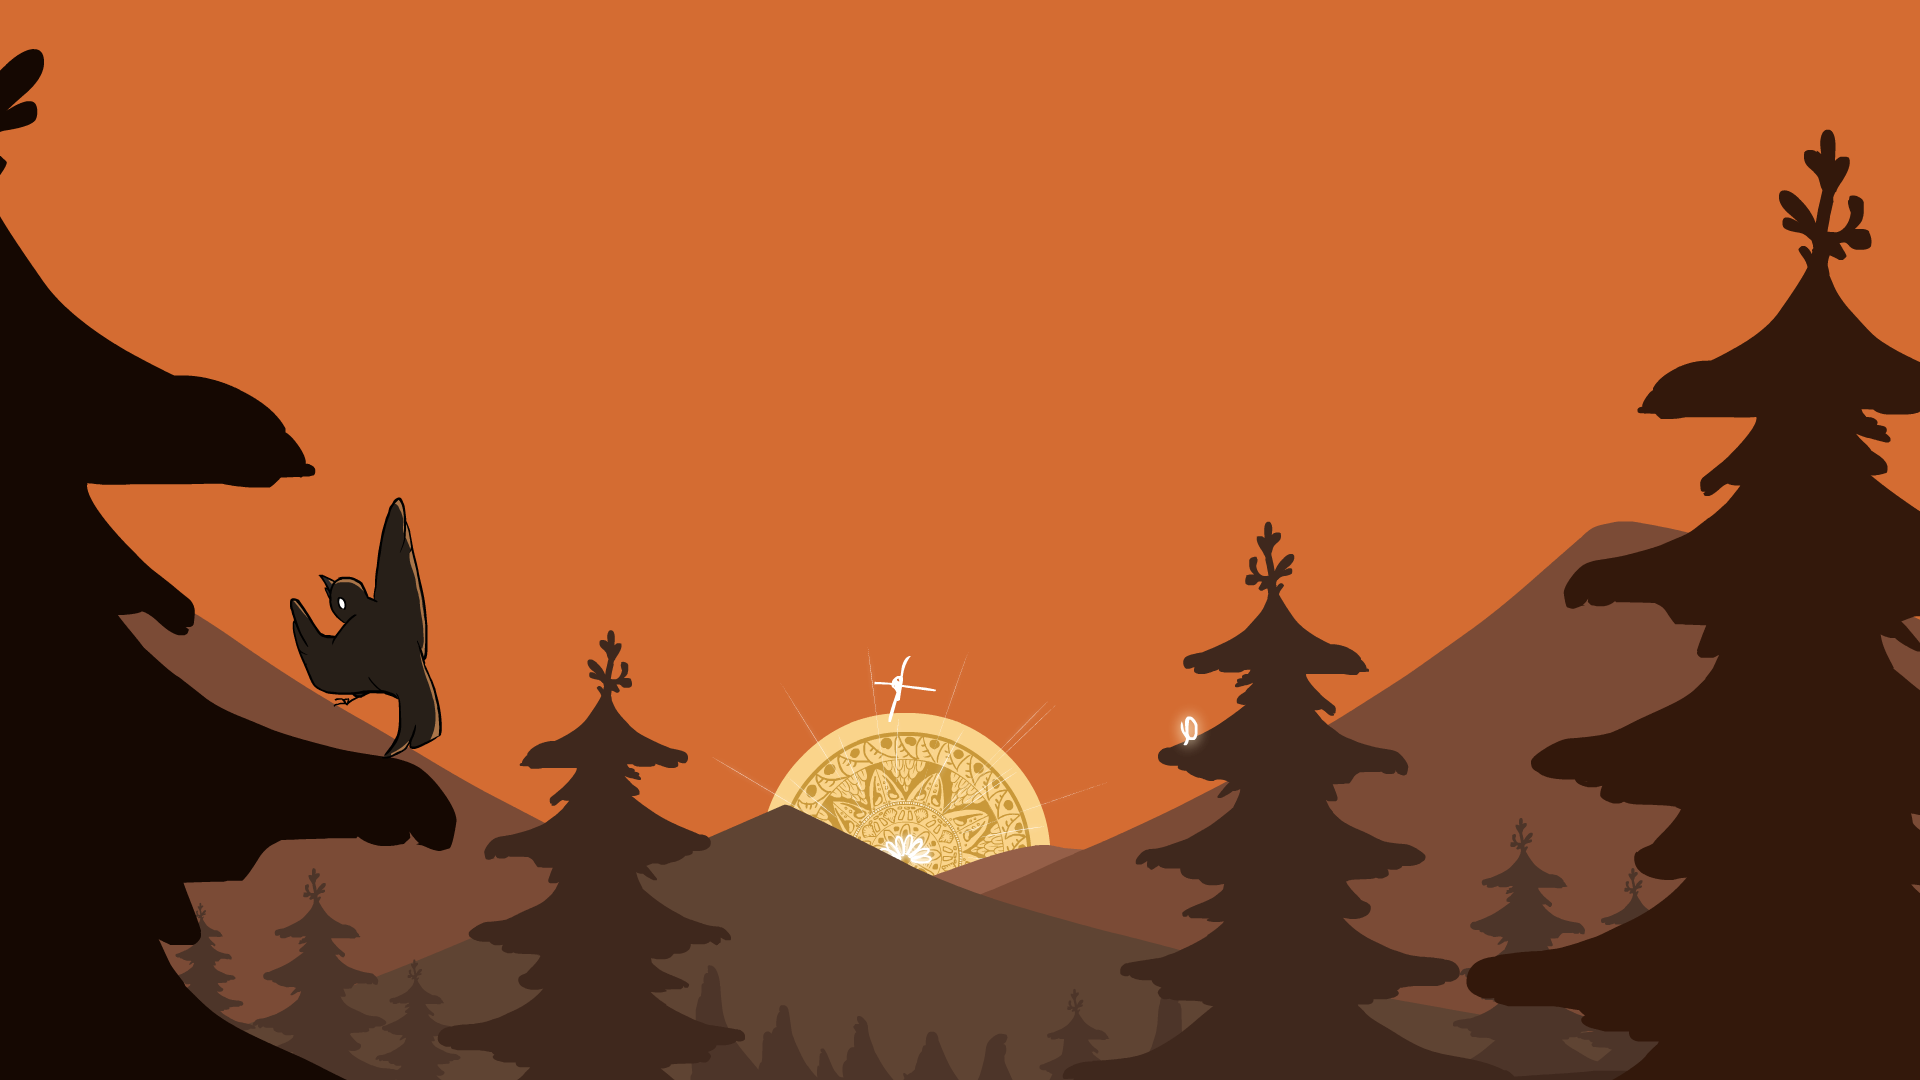
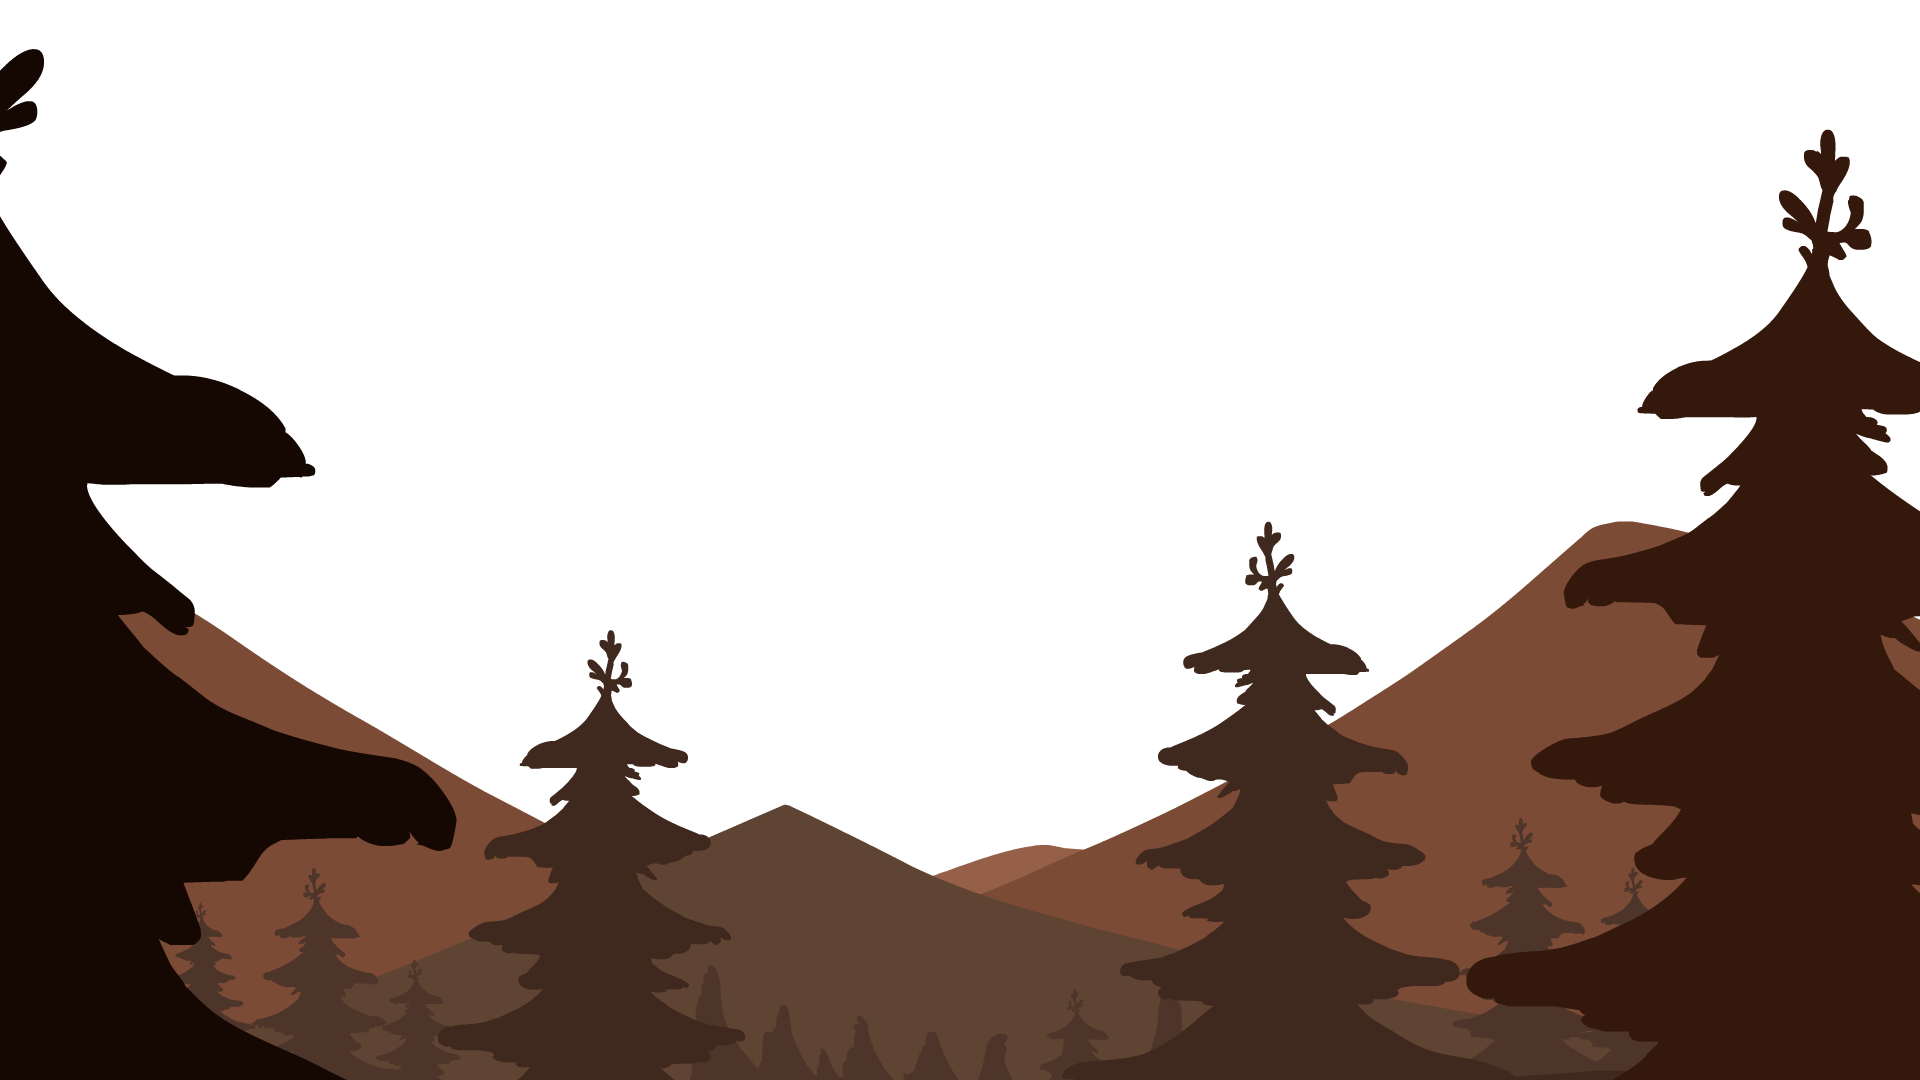
Bird working

diff --git a/src/Game.js b/src/Game.js
@@ -1,15 +1,12 @@
 import React from 'react';
 import ReactDOM from 'react-dom';
-
 import styled, { createGlobalStyle } from 'styled-components';
-
 
 import Keyboard from './Components/Keyboard';
 import SingSystem from './Components/SingSystem';
 import BirdSpawner from './Components/SpawnSystem';
 
-import GameConfig from 'constants/Config';
-
+import Config from 'constants/Config';
 import { Foreground, Button } from './Components/Elements';
 
 const GlobalStyle = createGlobalStyle`
@@ -18,6 +15,7 @@ const GlobalStyle = createGlobalStyle`
     height: 100%;
     margin: 0px;
     padding: 0px;
+    background-color: #D46C32;
   }
 `;
 
@@ -31,7 +29,7 @@ const LogicContainer = styled.div`
 
 
 function Game() {
-  const allowedSoundKeys = GameConfig.sounds.map(sound => sound.key);
+  const allowedSoundKeys = Config.sounds.map(sound => sound.key);
 
   return (
     <div>
@@ -43,20 +41,22 @@ function Game() {
           <SingSystem pressedKeys={pressedKeys}>
             {(currentSingTime, handleSingTimeReset) => {
               return (
-                <BirdSpawner
-                  singTime={currentSingTime}
-                  singTimeReset={handleSingTimeReset}
-                >
-                {(props) => {
-                  return (
-                    <LogicContainer>
-                      <div>pressedKeys: {JSON.stringify(pressedKeys)}</div>
-                      <div>singTime: {currentSingTime}</div>
-                      <Button onClick={handleSingTimeReset}>RESET</Button>
-                    </LogicContainer>
-                  )
-                }}
-                </BirdSpawner>
+                <div>
+                  <BirdSpawner
+                    singTime={currentSingTime}
+                    singTimeReset={handleSingTimeReset}
+                  >
+                    {sacrifice => {
+                      return (
+                        <LogicContainer>
+                          <div>pressedKeys: {JSON.stringify(pressedKeys)}</div>
+                          <div>singTime: {currentSingTime}</div>
+                          <Button onClick={handleSingTimeReset}>RESET</Button>
+                        </LogicContainer>
+                      )
+                    }}
+                  </BirdSpawner>
+                </div>
               );
             }}
           </SingSystem>

diff --git a/src/Components/Bird/Bird.js b/src/Components/Bird/Bird.js
@@ -1,0 +1,53 @@
+import React from 'react';
+import styled from 'styled-components';
+
+import { MainBird } from '../Elements';
+import Config from 'constants/Config';
+import { getRandomInt } from 'utils/random';
+
+class Bird extends React.PureComponent {
+  static IDLE = './images/bird-sing-03.png';
+  static SING = [
+    './images/bird-sing-01.png',
+    './images/bird-sing-02.png'
+  ];
+
+  state = {
+    birdAnimation: Bird.IDLE
+  }
+    
+  getRandomBirdSprite = () => {
+    return Bird.SING[getRandomInt(0, Bird.SING.length - 1)];
+  }
+
+  componentDidUpdate(prevProps) {
+    if (prevProps.pressedKeys.toString() !== this.props.pressedKeys.toString()) {
+
+      // Sing state
+      if (this.props.pressedKeys.length > 0) {
+
+        // Check that not the same sprite is chosen
+        let spriteNumber = this.getRandomBirdSprite();
+        while(spriteNumber === this.state.birdAnimation) {
+          spriteNumber = this.getRandomBirdSprite();
+        }
+
+        this.setState({ 
+          birdAnimation: spriteNumber
+        });
+
+      // Idle state
+      } else {
+        this.setState({ 
+          birdAnimation: Bird.IDLE
+        });
+      }
+    }
+  }
+
+  render() {
+    return <MainBird url={this.state.birdAnimation} />
+  }
+}
+
+export default Bird;

diff --git a/src/Components/SingSystem/SingSystem.js b/src/Components/SingSystem/SingSystem.js
@@ -2,7 +2,9 @@ import React from 'react';
 import _ from 'lodash';
 import ReactHowler from 'react-howler' 
 
-import Counter from '../Counter/Counter';
+import Counter from '../Counter';
+import Bird from '../Bird';
+
 import GameConfig from 'constants/Config';
 
 class SingSystem extends React.Component {
@@ -15,12 +17,16 @@ class SingSystem extends React.Component {
 
       // Pressed some key
       if (this.props.pressedKeys.length > 0) {
-        this.setState({ counterStage: Counter.RUN });
+        this.setState({ 
+          counterStage: Counter.RUN
+        });
       }
 
       // No keys pressed
       if (this.props.pressedKeys.length === 0) {
-        this.setState({ counterStage: Counter.STOP });
+        this.setState({ 
+          counterStage: Counter.STOP
+        });
       }
     }
   }
@@ -47,6 +53,8 @@ class SingSystem extends React.Component {
                 onPause={() => this[`soundSource_${sound.key}`].stop()}
               />
             ))}
+
+            <Bird pressedKeys={this.props.pressedKeys} />
 
             {this.props.children(count, this.handleReset)}
           </>

diff --git a/src/Components/Elements.js b/src/Components/Elements.js
@@ -2,7 +2,6 @@ import styled from 'styled-components';
 
 import Config from 'constants/Config';
 
-
 console.log(Config.images.foreground)
 
 export const Foreground = styled.div`
@@ -25,5 +24,27 @@ export const Button = styled.div`
   border: 1px solid tomato;
   background-color: papayawhip;
   margin: 10px 10px;
+`;
+
+export const MainBird = styled.div`
+  position: absolute;
+  left: 250px;
+  top: 510px;
+
+  width: 254px;
+  height: 328px;
+  background-image: url(${props => props.url});
+  background-repeat: no-repeat;
+  display: block;
+`;
+
+export const SecondaryBird = styled.div`
+  position: absolute;
+  top: ${props => props.y}px;
+  left: ${props => props.x}px;
+
+  width: 50px;
+  height: 50px;
+  border: 3px dashed lightgreen;
 `;
 

diff --git a/src/Components/SpawnSystem/SpawnSystem.js b/src/Components/SpawnSystem/SpawnSystem.js
@@ -1,14 +1,26 @@
 import React from 'react';
 
+import { SecondaryBird } from '../Elements';
+
+const spawnPositions = [
+  { x: 1188, y: 727 }
+]
 
 export default class SpawnSystem extends React.Component {
+  state = {
+    sacrifice: false
+  }
+
+  spawnBird = () => {
+
+  }
 
   render() {
-
     return (
-      <div>
-        {this.props.children(this.props)}
-      </div>
+      <>
+        {spawnPositions.map(spawn => <SecondaryBird key={`bird_${spawn.x}`} x={spawn.x} y={spawn.y} />)}
+        {this.props.children(this.state.sacrifice)}
+      </>
     )
   }
 }

diff --git a/assets/images/bird-sing.css b/assets/images/bird-sing.css
@@ -1,0 +1,23 @@
+.sprite {
+    background-image: url(spritesheet.png);
+    background-repeat: no-repeat;
+    display: block;
+}
+
+.sprite-BirdSing0001 {
+    width: 254px;
+    height: 328px;
+    background-position: -5px -5px;
+}
+
+.sprite-BirdSing0002 {
+    width: 254px;
+    height: 328px;
+    background-position: -269px -5px;
+}
+
+.sprite-BirdSing0003 {
+    width: 254px;
+    height: 328px;
+    background-position: -533px -5px;
+}

diff --git a/scripts/spritesheet-generator.js b/scripts/spritesheet-generator.js
@@ -1,6 +1,6 @@
 var spritesheet = require('spritesheet-js');
 
-spritesheet('./src/game/assets/*.png', {format: 'json'}, function (err) {
+spritesheet('./assets/images/temp/*.png', {format: 'json'}, function (err) {
   if (err) throw err;
 
   console.log('spritesheet successfully generated');

diff --git a/assets/index.dev.html b/assets/index.dev.html
@@ -4,7 +4,7 @@
     <meta charset="utf-8">
     <meta name="viewport" content="width=device-width, initial-scale=1, shrink-to-fit=no">
     <meta name="theme-color" content="#000000">
-    <title>Sun Scene</title>
+    <title>The Sun Scene</title>
   </head>
   <body>
     <noscript>

diff --git a/src/Constants/Config.js b/src/Constants/Config.js
@@ -1,6 +1,6 @@
 export default {
   images: {
-    foreground: './images/foreground.png'
+    foreground: './images/foreground.png',
   },
   sounds: [
     { key: 'a', path: './sounds/metal-gong.mp3'},

diff --git a/src/utils/random.js b/src/utils/random.js
@@ -1,0 +1,6 @@
+
+export function getRandomInt(min, max) {
+  min = Math.ceil(min);
+  max = Math.floor(max);
+  return Math.floor(Math.random() * (max - min + 1)) + min;
+}

diff --git a/README.md b/README.md
@@ -1,3 +1,12 @@
+
+### Utils
+
+```javascript
+window.addEventListener('mousemove', (event) => {
+  console.log(event.pageX, event.pageY)
+})
+```
+
 ## Singing System
 
 - Triggers different sounds depending on input
